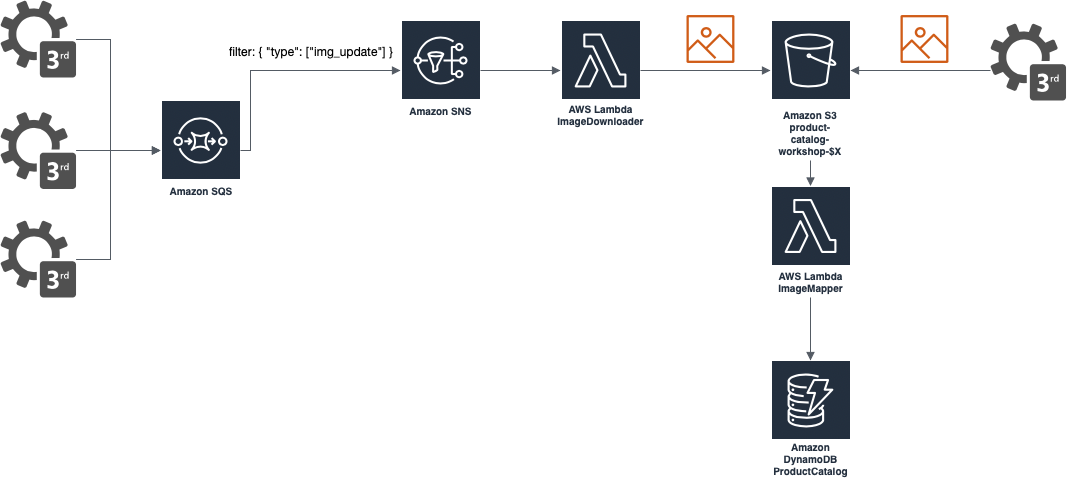
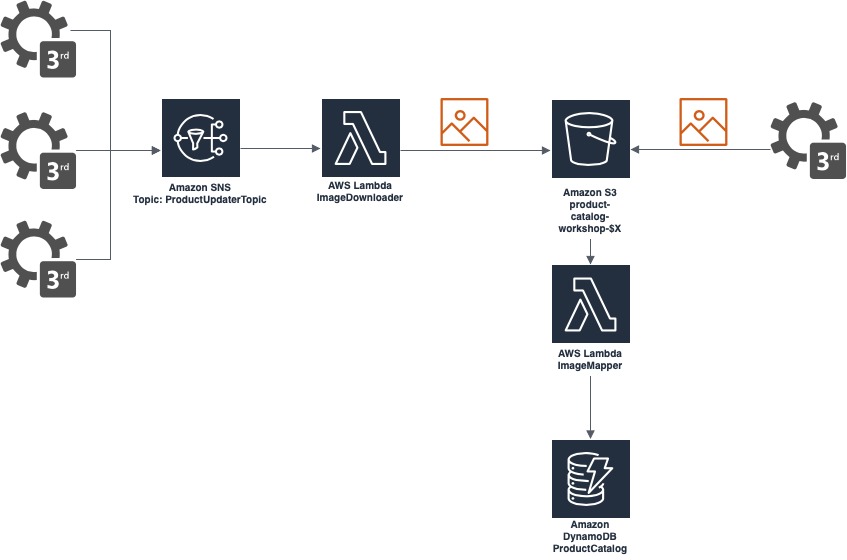
~ fix for ex2 with correct SNS

diff --git a/instructions/ex2/ex2.md b/instructions/ex2/ex2.md
@@ -16,12 +16,7 @@ Caution! Product image can be deliver directly to the system by 3rd party applic
 #### Instruction
 
 1. Create *S3* instance with the name **product-catalog-workshop-$X** with disabled `Block all public access` option - grant public access to all resources.
-2. Create *Amazon SQS* instance as `Standard Queue` - **products_updater_queue**
-3. Create `Topic` in *Amazon SNS* resource - **ProductUpdaterTopic**
-4. Create `Subscription` in *Amazon SNS* for *Amazon SQS* **products_updater_queue** with topic name **ProductUpdaterTopic** with filter: 
-    ```
-    { "type": ["img_update"] }
-    ```
+2. Create `Topic` in *Amazon SNS* resource - **ProductUpdaterTopic**
 5. Create *Lambda* function **ImageDownloader** in `Python 3.8 `
 6. In *Lambda* view add trigger and point it to *SNS* resource with `Arn` to topic with name **ProductUpdaterTopic**
 7. Implement **ImageDownloader** business logic to download file into *S3* bucket with name passed in body parameter `id`
@@ -52,7 +47,7 @@ Caution! Product image can be deliver directly to the system by 3rd party applic
     }
     ```
 
-10. Publish message in *SQS* **products_updater_queue** with body:
+10. Publish message in *SNS* **products_updater_queue** with body:
 
     ```
     {
@@ -68,7 +63,7 @@ Caution! Product image can be deliver directly to the system by 3rd party applic
 Queue with subscriber on specific topic which trigger Lambda function for download image from external server into S3 bucket
 
 #### AWS Services: 
-*Lambda*, *SQS*, *SNS*, *S3*
+*Lambda*, *SNS*, *S3*
 
 
 
@@ -137,4 +132,4 @@ S3 trigger Lambda function for indexing every time on new jpg file creation. Ima
 *Lambda*, *DynamoDB*, *S3*
 
 ### Questions
-1. What do you think is better option: public SQS or API endpoint which publish data to SQS?
+1. What do you think is better option: public SNS or API endpoint which publish data to SNS?
